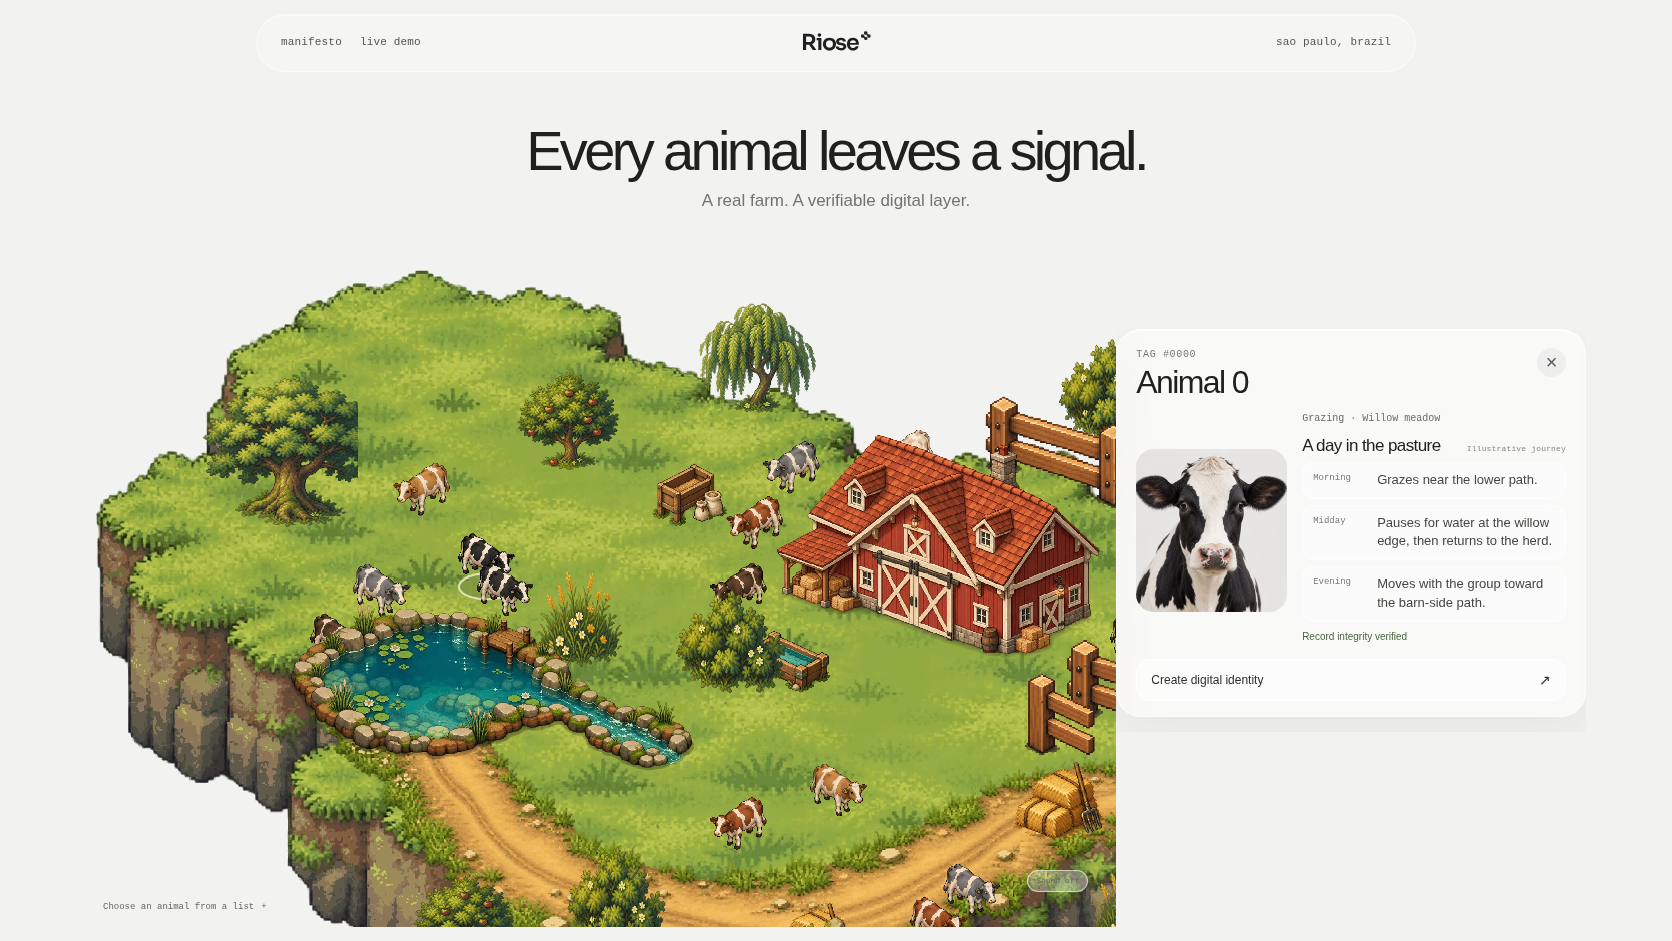
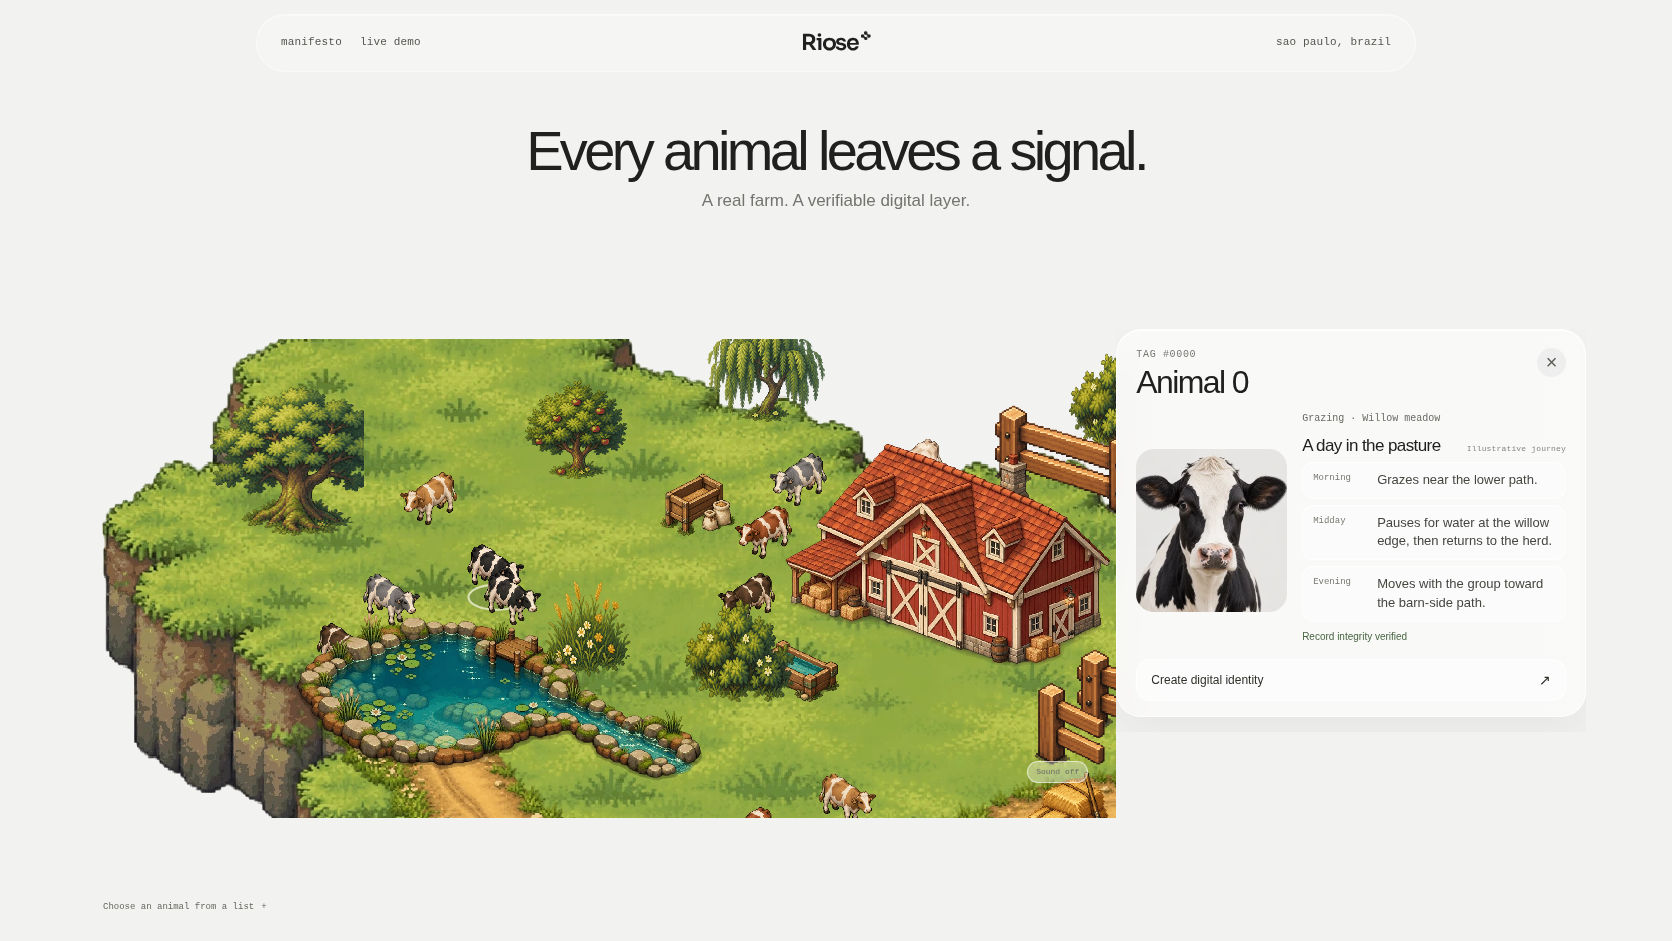
fix(demo): preserve farm proportions during selection

Changed region(s): [[0.0311, 0.2774, 0.6842, 0.9862]]

diff --git a/src/riose/products/livestock_tracking/adapters/static/assets/demo.css b/src/riose/products/livestock_tracking/adapters/static/assets/demo.css
@@ -78,8 +78,8 @@ button { font: inherit; }
   transition: grid-template-columns 520ms cubic-bezier(.22, 1, .36, 1);
 }
 .product-stage.has-selection { grid-template-columns: minmax(0, 2.15fr) minmax(355px, .98fr); }
-.farm-column { position: relative; min-width: 0; height: 100%; }
-.farm-stage { position: relative; isolation: isolate; width: 100%; height: 100%; overflow: visible; background: transparent; }
+.farm-column { position: relative; display: flex; min-width: 0; height: 100%; align-items: center; }
+.farm-stage { position: relative; isolation: isolate; width: 100%; height: auto; max-height: 100%; aspect-ratio: 2.15; overflow: visible; background: transparent; }
 .farm-canvas, .farm-canvas canvas { display: block; width: 100%; height: 100%; }
 .farm-canvas { position: absolute; inset: 0; touch-action: pan-y pinch-zoom; }
 .farm-canvas#farm-canvas::before { position: absolute; z-index: 0; inset: 0; background: center / contain no-repeat url('/assets/farm-demo/isometric/island-base.webp'); content: ""; opacity: 1; pointer-events: none; transition: opacity 220ms ease; }
@@ -197,6 +197,7 @@ button { font: inherit; }
 @media (max-width: 1120px) and (min-width: 761px) {
   .demo-page { width: min(100% - 42px, 1500px); }
   .product-stage.has-selection { grid-template-columns: minmax(0, 1.72fr) minmax(330px, 1fr); }
+  .farm-stage { aspect-ratio: 1.55; }
   .context-card { padding-right: 14px; padding-left: 14px; border-radius: 21px; }
   .animal-panel.is-open { padding: 15px 14px 12px; }
   .solana-panel.is-open { padding: 14px; }
@@ -221,7 +222,7 @@ button { font: inherit; }
   .demo-hero p { margin-top: 7px; font-size: 14px; }
   .product-stage, .product-stage.has-selection { height: auto; min-height: 0; grid-template-columns: minmax(0, 1fr); align-items: start; }
   .farm-column { height: auto; }
-  .farm-stage { height: min(58svh, 470px); min-height: 340px; }
+  .farm-stage { height: min(58svh, 470px); min-height: 340px; max-height: none; aspect-ratio: auto; }
   .farm-intro-hint { right: 8px; bottom: 9px; font-size: 9px; }
   .farm-sound-toggle { right: 8px; bottom: 34px; }
   .animal-access-list { bottom: 5px; left: 0; }
@@ -247,7 +248,7 @@ button { font: inherit; }
   .demo-page { width: calc(100% - 26px); padding-top: 100px; }
   .demo-hero h1 { font-size: clamp(35px, 9.3vw, 42px); }
   .demo-hero p { font-size: 13px; }
-  .farm-stage { height: min(56svh, 390px); min-height: 300px; }
+  .farm-stage { height: min(56svh, 390px); min-height: 300px; max-height: none; aspect-ratio: auto; }
   .animal-panel.is-open { padding: 14px; }
   .animal-panel-body { grid-template-columns: 104px minmax(0, 1fr); gap: 11px; }
   .record-portrait { border-radius: 14px; }

diff --git a/src/riose/products/livestock_tracking/adapters/static/index.html b/src/riose/products/livestock_tracking/adapters/static/index.html
@@ -7,7 +7,7 @@
   <meta name="description" content="Explore a living RIOSE farm, select an animal, and follow its verifiable record.">
   <link rel="icon" href="data:,">
   <link rel="preload" href="/assets/fonts/sora-latin-600.woff2" as="font" type="font/woff2" crossorigin>
-  <link rel="stylesheet" href="/assets/demo.css?v=20261007-22">
+  <link rel="stylesheet" href="/assets/demo.css?v=20261007-23">
   <title>RIOSE — Guided demo</title>
 </head>
 <body>
